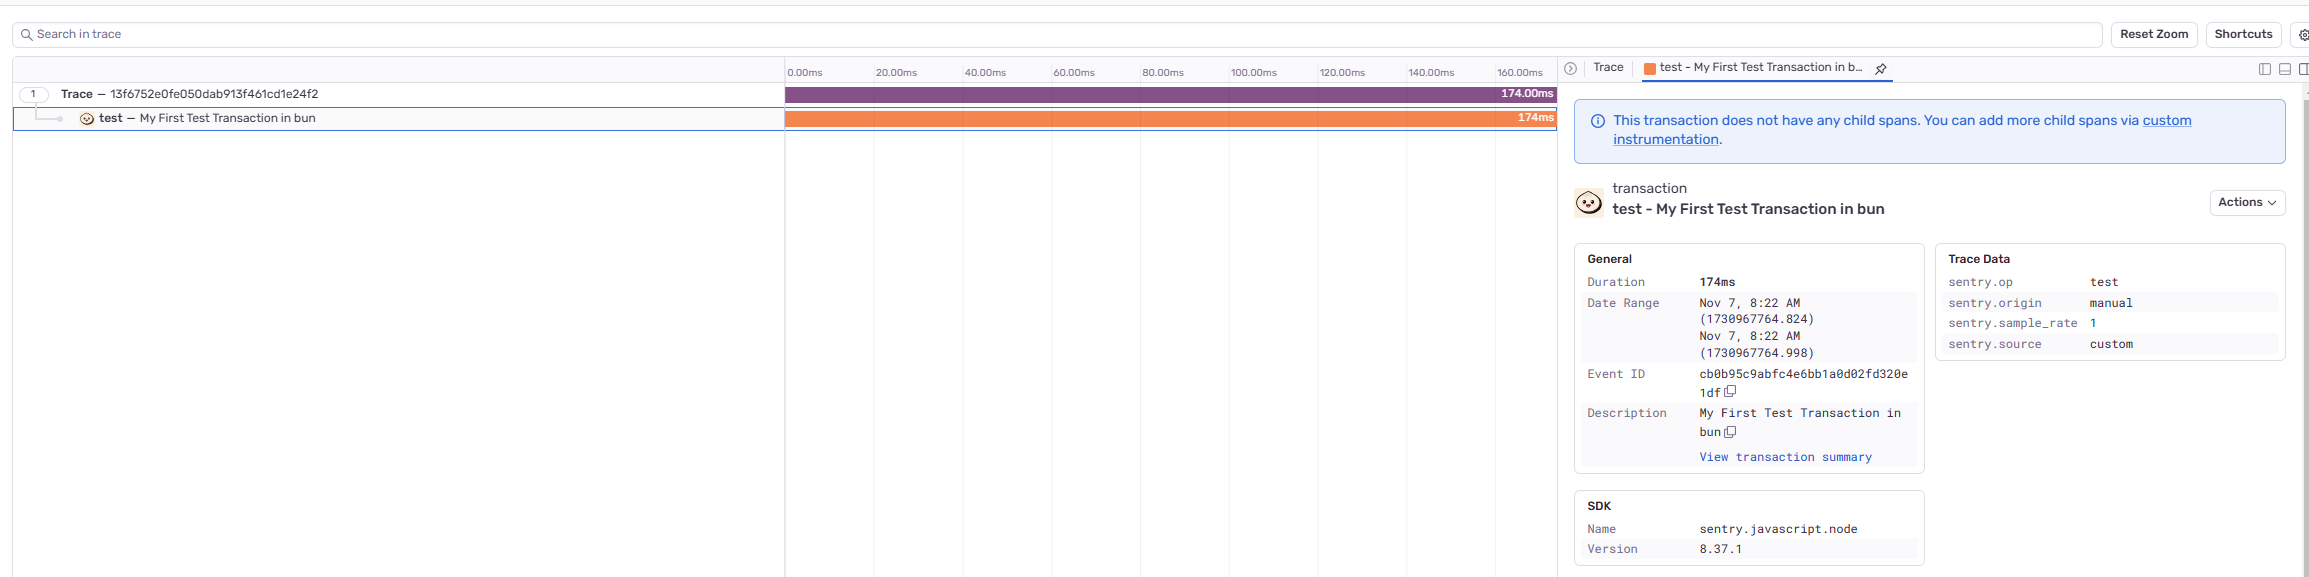
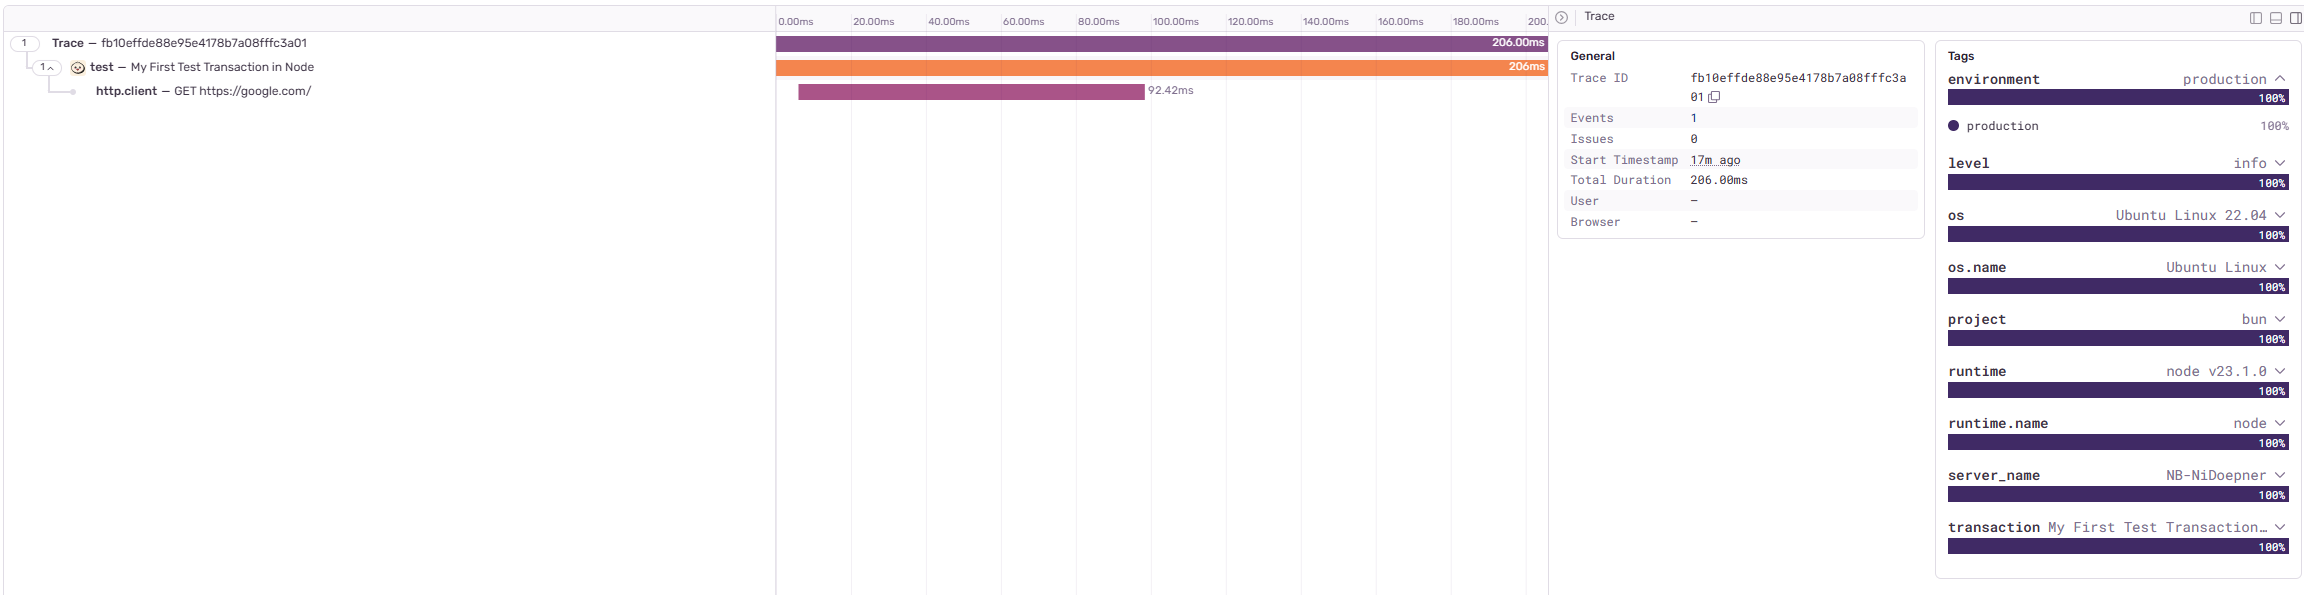
update images

diff --git a/Readme.md b/Readme.md
@@ -6,7 +6,6 @@ bun install
 bun run index.ts
 ```
 
-![alt text](image.png)
 
 # Node
 Using v23.1.0
@@ -20,3 +19,11 @@ node --experimental-strip-types index.ts
 ## Errors
 bun error is not caught
 ![alt text](image-1.png)
+
+## Traces
+
+### Spans are created for fetch in node
+![alt text](image.png)
+
+### No spans are created for fetch in Bun
+![alt text](image-2.png)
